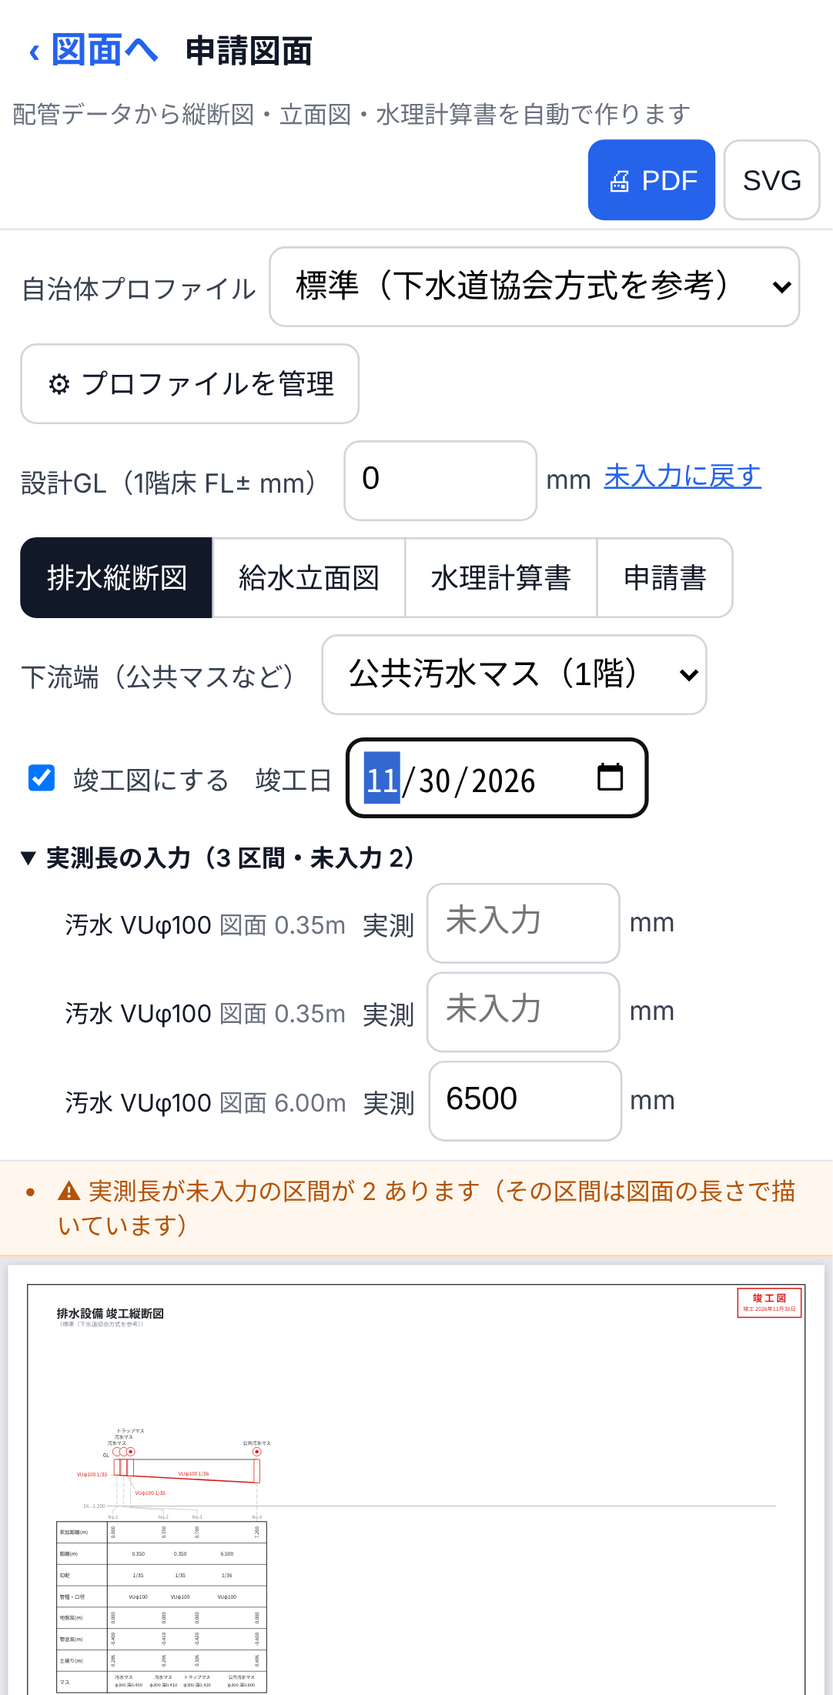
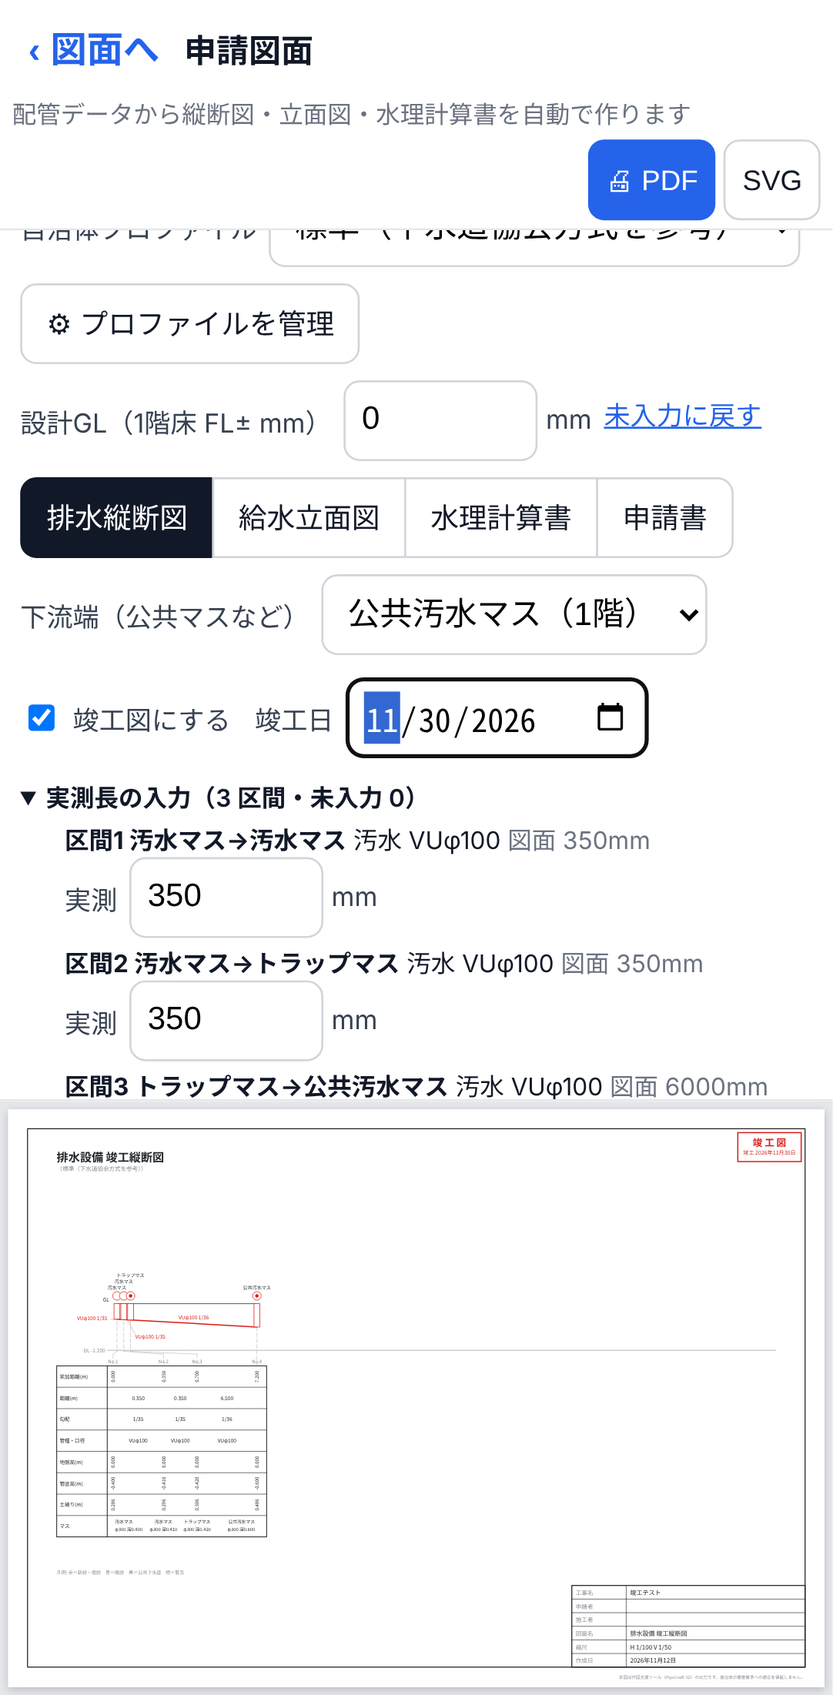
fix(竣工図): レビュー指摘の修正（ふだんの注意を落とさない・勾配の注意を実測で出し直す・一覧に区間番号とマス・mm で表示し図面とかけ離れた値と概算を注意・一覧が勝手に閉じない・ありえない日付・印で線を隠さない・立面図は一覧を出さない）
Claude-Session: https://claude.ai/code/session_0147UKVvh1jvwGpYxGadQEHZ

Changed region(s): [[0.0, 0.1235, 1.0, 1.0], [0.4575, 0.1235, 0.8845, 0.1853]]

diff --git a/src/ui/ShinseiScreen.tsx b/src/ui/ShinseiScreen.tsx
@@ -27,7 +27,7 @@ import { resolveSupplyRules } from '../model/hydraulics/supplyRules';
 import { renderSuiriSheets } from '../export/suiriSheet';
 import { SuiriPanel } from './SuiriPanel';
 import { AsBuiltPanel } from './AsBuiltPanel';
-import { applyMeasuredToProfile, asBuiltTitle, measuredLengthOf, readAsBuilt, unmeasuredSegments, writeAsBuilt, type AsBuiltSettings } from '../model/asBuilt';
+import { applyMeasuredToProfile, approxSegments, asBuiltTitle, suspiciousMeasured, measuredLengthOf, readAsBuilt, unmeasuredSegments, writeAsBuilt, type AsBuiltSettings } from '../model/asBuilt';
 import { stampAsBuilt } from '../export/asBuiltStamp';
 import { dateJa } from '../export/report';
 
@@ -84,7 +84,17 @@ const geometricLength = (doc: ReturnType<typeof useStore.getState>['doc']) => me
 
 export type ShinseiBuild = { sheets: Sheet[]; svg: string; warnings: string[]; error: string | null; kind: Kind;
   /** 竣工図: 図に出ている区間（実測長の一覧に出す）と図面の長さ */
-  asBuilt?: { segIds: string[]; unmeasured: number; modelLen: Record<string, number> } };
+  asBuilt?: { segIds: string[]; unmeasured: number; modelLen: Record<string, number>; labels: Record<string, string>; /** この図には長さを書かない（立面図） */ noLengths?: boolean } };
+
+/** 竣工図の注意: 未入力・図面とかけ離れた実測（単位の入れ違いなど）・按分の概算 */
+function asBuiltNotes(doc: ReturnType<typeof useStore.getState>['doc'], segIds: string[], modelLen: Record<string, number>, labels: Record<string, string>, unmeasured: number): string[] {
+  const out: string[] = [];
+  if (unmeasured) out.push(`実測長が未入力の区間が ${unmeasured} あります（その区間は図面の長さで描いています）`);
+  for (const id of suspiciousMeasured(doc, segIds, modelLen)) out.push(`${labels[id] ?? '区間'}: 実測 ${Math.round(doc.network.segments[id].measuredLength! * 10) / 10}mm が図面 ${Math.round(modelLen[id])}mm と大きく違います（単位は mm）`);
+  const approx = approxSegments(doc, segIds);
+  if (approx.length) out.push(`区間を分けたときに長さの比で分けた概算の実測長が ${approx.length} 区間あります（測り直すと正確になります）`);
+  return out;
+}
 
 export function ShinseiScreen({ onClose }: { onClose: () => void }) {
   const doc = useStore((s) => s.doc);
@@ -175,20 +185,29 @@ export function ShinseiScreen({ onClose }: { onClose: () => void }) {
       const unmeasured = new Set<string>();
       const drawn = ab ? models.map((m) => { const x = applyMeasuredToProfile(m, doc); x.unmeasured.forEach((u) => unmeasured.add(u)); return x.model; }) : models;
       const sheets = drawn.map((m, i) => renderProfileSheet(m, { siteName, date }, i === 0 ? iso : undefined));
-      const warnings = models.flatMap((m) => m.warnings.map((w) => w.message));
-      if (ab) {
-        // 縦断図に載る排水の展開図（沖縄市）の区間も一覧に入れる（長さを書くため）
-        if (iso) {
-          const geo = geometricLength(doc);
-          for (const l of iso.lines) if (!(l.segId in modelLen)) modelLen[l.segId] = geo(l.segId);
-          unmeasuredSegments(doc, iso.lines.map((l) => l.segId)).forEach((u) => unmeasured.add(u));
-        }
-        if (unmeasured.size) warnings.unshift(`実測長が未入力の区間が ${unmeasured.size} あります（その区間は図面の長さで描いています）`);
-        return { sheets, svg: '', warnings, error: null, kind, asBuilt: { segIds: Object.keys(modelLen), unmeasured: unmeasured.size, modelLen } };
-      }
+      // 注意は描いたモデルから（竣工図では勾配の注意を実測で出し直している）
+      const warnings = drawn.flatMap((m) => m.warnings.map((w) => w.message));
       if (iso && iso.lines.length === 0) warnings.push('排水の立面図（展開図）を描く配管がないため、縦断図だけを出しています');
       for (const o of r.omitted) warnings.push(`枝の中の分岐（${nodeLabel(o.atNodeId)}）は図に含めていません。別の下流端を選んで別に作図してください`);
       if (profileMissing) warnings.unshift(`現場の自治体プロファイル（${profileId}）がこの端末に見つからないため、標準で描いています`);
+      if (ab) {
+        // 一覧の名前: 「枝1 区間2 NO.1→NO.2」（注意の「区間 n」と同じ番号）
+        const labels: Record<string, string> = {};
+        models.forEach((m, mi) => m.segments.forEach((sg, k) => {
+          if (sg.distance < 1) return;
+          const nm = (n: (typeof m.nodes)[number] | undefined) => n?.manhole?.name ?? '点';
+          labels[sg.segId] = `${mi > 0 ? `枝${mi} ` : ''}区間${k + 1} ${nm(m.nodes[k])}→${nm(m.nodes[k + 1])}`;
+        }));
+        // 縦断図に載る排水の展開図（沖縄市）の区間も一覧に入れる（長さを書くため）
+        if (iso) {
+          const geo = geometricLength(doc);
+          for (const l of iso.lines) if (!(l.segId in modelLen)) { modelLen[l.segId] = geo(l.segId); labels[l.segId] = '展開図'; }
+          unmeasuredSegments(doc, iso.lines.map((l) => l.segId)).forEach((u) => unmeasured.add(u));
+        }
+        const segIds = Object.keys(modelLen);
+        warnings.unshift(...asBuiltNotes(doc, segIds, modelLen, labels, unmeasured.size));
+        return { sheets, svg: '', warnings, error: null, kind, asBuilt: { segIds, unmeasured: unmeasured.size, modelLen, labels } };
+      }
       return { sheets, svg: sheets.map(sheetToSvg).join(''), warnings, error: null, kind };
     }
     if (!rootId) return { sheets: [], svg: '', warnings: [], error: '給水の配管がありません。水道メーターを置き、給水の配管をつないでください', kind };
@@ -201,10 +220,12 @@ export function ShinseiScreen({ onClose }: { onClose: () => void }) {
       if (asBuilt.on) {
         const ids = iso.lines.map((l) => l.segId);
         const un = unmeasuredSegments(doc, ids);
-        if (un.length) warnings.push(`実測長が未入力の区間が ${un.length} あります（その区間は図面の長さで描いています）`);
         if (profileMissing) warnings.unshift(`現場の自治体プロファイル（${profileId}）がこの端末に見つからないため、標準で描いています`);
         const geo = geometricLength(doc);
-        return { sheets: [sheet], svg: '', warnings, error: null, kind, asBuilt: { segIds: ids, unmeasured: un.length, modelLen: Object.fromEntries(ids.map((id) => [id, geo(id)])) } };
+        const modelLen = Object.fromEntries(ids.map((id) => [id, geo(id)]));
+        const labels = Object.fromEntries(iso.lines.map((l, i) => [l.segId, `区間${i + 1} ${l.label.replace(/×[\d.]+$/, '')}`]));
+        warnings.push(...asBuiltNotes(doc, ids, modelLen, labels, un.length));
+        return { sheets: [sheet], svg: '', warnings, error: null, kind, asBuilt: { segIds: ids, unmeasured: un.length, modelLen, labels } };
       }
       if (profileMissing) warnings.unshift(`現場の自治体プロファイル（${profileId}）がこの端末に見つからないため、標準で描いています`);
       return { sheets: [sheet], svg: sheetToSvg(sheet), warnings, error: null, kind };
@@ -213,14 +234,9 @@ export function ShinseiScreen({ onClose }: { onClose: () => void }) {
     const sheet = renderRiserSheet(m, { siteName, date });
     const warnings = [...m.warnings];
     if (asBuilt.on) {
-      // 立面図は長さを書かない（表題と印だけ）。実測の一覧には図の区間を出す
-      const ids: string[] = [];
-      const walk = (n: RiserModel['root']) => { for (const e of n.children) { ids.push(e.segId); walk(e.to); } };
-      walk(m.root);
-      const un = unmeasuredSegments(doc, ids);
+      // 立面図は長さを書かない（表題と印だけ）。実測の一覧は出さない
       if (profileMissing) warnings.unshift(`現場の自治体プロファイル（${profileId}）がこの端末に見つからないため、標準で描いています`);
-      const geo = geometricLength(doc);
-      return { sheets: [sheet], svg: '', warnings, error: null, kind, asBuilt: { segIds: ids, unmeasured: un.length, modelLen: Object.fromEntries(ids.map((id) => [id, geo(id)])) } };
+      return { sheets: [sheet], svg: '', warnings, error: null, kind, asBuilt: { segIds: [], unmeasured: 0, modelLen: {}, labels: {}, noLengths: true } };
     }
     if (profileMissing) warnings.unshift(`現場の自治体プロファイル（${profileId}）がこの端末に見つからないため、標準で描いています`);
     return { sheets: [sheet], svg: sheetToSvg(sheet), warnings, error: null, kind };
@@ -320,7 +336,7 @@ export function ShinseiScreen({ onClose }: { onClose: () => void }) {
           </label>
         )}
         {(kind === 'profile' || kind === 'riser') && (
-          <AsBuiltPanel settings={asBuilt} onChange={setAsBuilt} segIds={built.asBuilt?.segIds ?? []} unmeasured={built.asBuilt?.unmeasured ?? 0} modelLength={(id) => built.asBuilt?.modelLen[id] ?? 0} />
+          <AsBuiltPanel settings={asBuilt} onChange={setAsBuilt} segIds={built.asBuilt?.segIds ?? []} unmeasured={built.asBuilt?.unmeasured ?? 0} modelLength={(id) => built.asBuilt?.modelLen[id] ?? 0} labels={built.asBuilt?.labels ?? {}} noLengths={!!built.asBuilt?.noLengths} />
         )}
         {kind !== 'forms' && <div className="seg-btns small">
           <button onClick={() => setZoom((z) => Math.max(0.25, z / 1.25))} aria-label="縮小">−</button>

diff --git a/src/model/asBuilt.ts b/src/model/asBuilt.ts
@@ -4,8 +4,8 @@
  * 縦断図は profileDrawing を変えずに、できたモデルを差し替える（排水の作業と衝突させないため）。
  */
 import type { Doc } from './doc';
-import { formatSlope } from './municipality';
-import type { ProfileModel } from './profileDrawing';
+import { formatSlope, minSlopeFor } from './municipality';
+import type { ProfileModel, ProfileWarning } from './profileDrawing';
 
 export type AsBuiltSettings = { on: boolean; date: string | undefined };
 
@@ -13,13 +13,21 @@ const ISO_DATE = /^\d{4}-\d{2}-\d{2}$/;
 
 export function readAsBuilt(app: Record<string, string> | undefined): AsBuiltSettings {
   const d = app?.['shunko.date'];
-  return { on: app?.['shunko.on'] === '1', date: d && ISO_DATE.test(d) ? d : undefined };
+  return { on: app?.['shunko.on'] === '1', date: d && validDate(d) ? d : undefined };
+}
+
+/** YYYY-MM-DD で、実在する日（2026-02-31 などは不可） */
+function validDate(d: string): boolean {
+  if (!ISO_DATE.test(d)) return false;
+  const [y, m, day] = d.split('-').map(Number);
+  const t = new Date(y, m - 1, day);
+  return t.getFullYear() === y && t.getMonth() === m - 1 && t.getDate() === day;
 }
 
 export function writeAsBuilt(app: Record<string, string> | undefined, patch: Partial<AsBuiltSettings>): Record<string, string> {
   const out = { ...(app ?? {}) };
   if ('on' in patch) { if (patch.on) out['shunko.on'] = '1'; else delete out['shunko.on']; }
-  if ('date' in patch) { if (patch.date && ISO_DATE.test(patch.date)) out['shunko.date'] = patch.date; else delete out['shunko.date']; }
+  if ('date' in patch) { if (patch.date && validDate(patch.date)) out['shunko.date'] = patch.date; else delete out['shunko.date']; }
   return out;
 }
 
@@ -51,6 +59,19 @@ export function unmeasuredSegments(doc: Doc, segIds: string[]): string[] {
   return segIds.filter((id) => doc.network.segments[id] && measured(doc, id) === undefined);
 }
 
+/** 按分した概算の実測長の区間 */
+export function approxSegments(doc: Doc, segIds: string[]): string[] {
+  return segIds.filter((id) => measured(doc, id) !== undefined && doc.network.segments[id]?.measuredApprox);
+}
+
+/** 実測が図面の長さの半分未満・2 倍超の区間（mm と m の入れ違いなど）。図面で 100mm 未満の区間は比べない */
+export function suspiciousMeasured(doc: Doc, segIds: string[], modelLen: Record<string, number>): string[] {
+  return segIds.filter((id) => {
+    const m = measured(doc, id), L = modelLen[id];
+    return m !== undefined && L !== undefined && L >= 100 && (m < L * 0.5 || m > L * 2);
+  });
+}
+
 /**
  * 縦断図のモデルの延長を実測にする。追加距離を積み直し、勾配＝落差÷実測。立管（延長 1mm 未満）は触らない。
  * 元のモデルは変えない。unmeasured: 実測の無い区間（立管を除く）
@@ -67,11 +88,20 @@ export function applyMeasuredToProfile(model: ProfileModel, doc: Doc): { model: 
     const slope = (up.invertLevel - (down.invertIn ?? down.invertLevel)) / m;
     return { ...s, distance: m, slope, slopeText: slope < -1e-9 ? '逆勾配' : formatSlope(slope, fmt) };
   });
+  // 勾配の注意（逆勾配・最小勾配）は、延長を変えた区間だけ出し直す
+  const changed = new Set(segments.filter((s, k) => s !== model.segments[k]).map((s) => s.segId));
+  const warnings: ProfileWarning[] = model.warnings.filter((w) => !(w.segId && changed.has(w.segId) && (w.kind === 'minSlope' || w.kind === 'reverseSlope')));
+  segments.forEach((s, k) => {
+    if (!changed.has(s.segId) || s.slope === null) return;
+    if (s.slope < -1e-9) { warnings.push({ kind: 'reverseSlope', segId: s.segId, message: `区間 ${k + 1}: 逆勾配（下流のほうが高い）` }); return; }
+    const need = minSlopeFor(model.profile, s.diameter);
+    if (need !== undefined && s.slope + 1e-9 < need) warnings.push({ kind: 'minSlope', segId: s.segId, message: `区間 ${k + 1}: φ${s.diameter} の最小勾配 ${formatSlope(need, fmt)} より緩い（${formatSlope(s.slope, fmt)}・実測）` });
+  });
   let cum = model.nodes[0]?.cumDistance ?? 0;
   const nodes = model.nodes.map((n, k) => {
     if (k === 0) return n;
     cum += segments[k - 1]?.distance ?? 0;
     return { ...n, cumDistance: cum };
   });
-  return { model: { ...model, segments, nodes }, unmeasured };
+  return { model: { ...model, segments, nodes, warnings }, unmeasured };
 }

diff --git a/src/ui/AsBuiltPanel.tsx b/src/ui/AsBuiltPanel.tsx
@@ -2,25 +2,37 @@
  * 申請画面の「竣工図にする」と竣工日、図に出ている区間の実測長の一覧（まとめて入れる）。
  * 実測長は区間の measuredLength（現場実測長）。入れた値はそのまま図の延長になる。
  */
+import { useState } from 'react';
 import { useStore } from '../state/store';
 import type { AsBuiltSettings } from '../model/asBuilt';
 import { OptNumField } from './Panels';
 
-type Props = { settings: AsBuiltSettings; onChange: (patch: Partial<AsBuiltSettings>) => void; segIds: string[]; unmeasured: number; modelLength: (segId: string) => number };
+type Props = { settings: AsBuiltSettings; onChange: (patch: Partial<AsBuiltSettings>) => void; segIds: string[]; unmeasured: number; modelLength: (segId: string) => number; labels: Record<string, string>; noLengths?: boolean };
 
 const SYS: Record<string, string> = { water: '給水', hotWater: '給湯', drain: '雑排水', sewage: '汚水', vent: '通気' };
 
-export function AsBuiltPanel({ settings, onChange, segIds, unmeasured, modelLength }: Props) {
-  const doc = useStore((s) => s.doc);
-  const setMeasured = useStore((s) => s.setSegmentMeasured);
+export function AsBuiltPanel({ settings, onChange, segIds, unmeasured, modelLength, labels, noLengths }: Props) {
   return (
     <>
       <label className="field inline"><input type="checkbox" data-testid="asbuilt-on" checked={settings.on} onChange={(e) => onChange({ on: e.target.checked })} /> 竣工図にする</label>
       {settings.on && (
         <>
           <label className="field inline">竣工日 <input type="date" data-testid="asbuilt-date" value={settings.date ?? ''} onChange={(e) => onChange({ date: e.target.value || undefined })} /></label>
-          {segIds.length > 0 && (
-            <details className="asbuilt-list" data-testid="asbuilt-list" open={unmeasured > 0}>
+          {noLengths && <span className="muted small">この図には長さを書きません（表題と竣工の印だけ変わります）</span>}
+          {segIds.length > 0 && <AsBuiltList segIds={segIds} unmeasured={unmeasured} modelLength={modelLength} labels={labels} />}
+        </>
+      )}
+    </>
+  );
+}
+
+/** 実測長の一覧。出たときに未入力があれば開き、入れ終わっても勝手に閉じない（スマホで画面が跳ねないように） */
+function AsBuiltList({ segIds, unmeasured, modelLength, labels }: Pick<Props, 'segIds' | 'unmeasured' | 'modelLength' | 'labels'>) {
+  const doc = useStore((s) => s.doc);
+  const setMeasured = useStore((s) => s.setSegmentMeasured);
+  const [open, setOpen] = useState(unmeasured > 0);
+  return (
+            <details className="asbuilt-list" data-testid="asbuilt-list" open={open} onToggle={(e) => setOpen(e.currentTarget.open)}>
               <summary>実測長の入力（{segIds.length} 区間・未入力 <span data-testid="asbuilt-unmeasured">{unmeasured}</span>）</summary>
               <ol>
                 {segIds.map((id) => {
@@ -28,7 +40,7 @@ export function AsBuiltPanel({ settings, onChange, segIds, unmeasured, modelLeng
                   if (!s) return null;
                   return (
                     <li key={id}>
-                      <span className="small">{SYS[s.system] ?? s.system} {s.material ?? ''}φ{s.diameter}<span className="muted"> 図面 {(modelLength(id) / 1000).toFixed(2)}m</span></span>
+                      <span className="small"><strong>{labels[id] ?? ''}</strong> {SYS[s.system] ?? s.system} {s.material ?? ''}φ{s.diameter}<span className="muted"> 図面 {Math.round(modelLength(id))}mm</span></span>
                       <OptNumField label="実測" positive value={s.measuredLength} testId={`asbuilt-len-${id}`} placeholder="未入力" onCommit={(v) => setMeasured(id, v)} />
                       {s.measuredApprox && <span className="badge warn" title="区間を分けたとき長さの比で分けた値">概算</span>}
                     </li>
@@ -36,9 +48,5 @@ export function AsBuiltPanel({ settings, onChange, segIds, unmeasured, modelLeng
                 })}
               </ol>
             </details>
-          )}
-        </>
-      )}
-    </>
   );
 }

diff --git a/src/model/asBuilt.test.ts b/src/model/asBuilt.test.ts
@@ -2,7 +2,7 @@ import { describe, expect, test } from 'vitest';
 import { drainHouse as crowdedDrain } from './testDrainHouse';
 import { STANDARD_PROFILE } from './municipality';
 import { buildProfile, extractRoute } from './profileDrawing';
-import { applyMeasuredToProfile, asBuiltTitle, measuredLengthOf, readAsBuilt, unmeasuredSegments, writeAsBuilt } from './asBuilt';
+import { applyMeasuredToProfile, approxSegments, asBuiltTitle, measuredLengthOf, readAsBuilt, suspiciousMeasured, unmeasuredSegments, writeAsBuilt } from './asBuilt';
 import type { Doc } from './doc';
 
 function withMeasured(doc: Doc, m: Record<string, number>, approx: string[] = []): Doc {
@@ -84,5 +84,37 @@ describe('展開図の長さ・未実測の区間', () => {
     expect(len(ids[0])).toBe(777);
     expect(len(ids[2])).toBeGreaterThan(0);
     expect(unmeasuredSegments(d2, ids)).toEqual(ids.slice(2));
+  });
+});
+
+describe('レビュー指摘', () => {
+  test('勾配の注意を実測の勾配で出し直す（緩くなれば足し、直れば消す）', () => {
+    const { doc, outlet } = crowdedDrain();
+    const base = profileOf(doc, outlet);
+    const target = base.segments.filter((s) => s.slope !== null).at(-1)!;
+    const k = base.segments.indexOf(target);
+    expect(base.warnings.some((w) => w.segId === target.segId)).toBe(false);
+    const long = withMeasured(doc, { [target.segId]: 60000 });
+    const a = applyMeasuredToProfile(profileOf(long, outlet), long).model;
+    expect(a.warnings.filter((w) => w.segId === target.segId).map((w) => w.kind)).toEqual(['minSlope']);
+    expect(a.warnings.find((w) => w.segId === target.segId)!.message).toContain(`区間 ${k + 1}:`);
+    // 図面では緩い（古い注意あり）→ 実測で足りる → 消える
+    const stale = { ...profileOf(doc, outlet) };
+    stale.warnings = [...stale.warnings, { kind: 'minSlope' as const, segId: target.segId, message: '古い' }];
+    const short = withMeasured(doc, { [target.segId]: 3000 });
+    expect(applyMeasuredToProfile(stale, short).model.warnings.some((w) => w.segId === target.segId)).toBe(false);
+  });
+  test('図面の長さとかけ離れた実測（単位の間違いなど）・按分の概算を見つける', () => {
+    const { doc } = crowdedDrain();
+    const ids = Object.keys(doc.network.segments);
+    const d2 = withMeasured(doc, { [ids[0]]: 6.5, [ids[1]]: 1, [ids[2]]: 400 }, [ids[2]]);
+    const len = { [ids[0]]: 6000, [ids[1]]: 1.5, [ids[2]]: 350 };
+    expect(suspiciousMeasured(d2, ids, len)).toEqual([ids[0]]); // 1.5mm の区間は比べない（立管など）
+    expect(approxSegments(d2, ids)).toEqual([ids[2]]);
+  });
+  test('ありえない竣工日は読まない', () => {
+    expect(readAsBuilt({ 'shunko.date': '2026-13-01' }).date).toBeUndefined();
+    expect(readAsBuilt({ 'shunko.date': '2026-02-31' }).date).toBeUndefined();
+    expect(readAsBuilt({ 'shunko.date': '2026-02-28' }).date).toBe('2026-02-28');
   });
 });

diff --git a/e2e/asbuilt.spec.ts b/e2e/asbuilt.spec.ts
@@ -37,6 +37,20 @@ test.describe('竣工図', () => {
     await expect.poll(() => page.evaluate((id) => (window as any).__pc.getState().doc.network.segments[id].measuredLength, segId)).toBe(6500);
     await expect(page.getByTestId('asbuilt-unmeasured')).toHaveText(String(before - 1));
     await expect(preview).toContainText('6.500');
+    // 一覧は区間の番号とマスで見分けられる
+    await expect(page.getByTestId('asbuilt-list')).toContainText('区間');
+    await expect(page.getByTestId('asbuilt-list')).toContainText('→');
+    // m のつもりで 6.5 と入れる → 図面とかけ離れていると注意（単位は mm）
+    const first = inputs.first();
+    await first.fill('6.5'); await first.press('Enter');
+    await expect(page.getByTestId('shinsei-warnings')).toContainText('大きく違います（単位は mm）');
+    await first.fill(''); await first.press('Enter');
+    await expect(page.getByTestId('shinsei-warnings')).not.toContainText('大きく違います');
+    // 全部入れても一覧は閉じない
+    const n = await inputs.count();
+    for (let i = 0; i < n; i++) { const el = inputs.nth(i); if ((await el.inputValue()) === '') { await el.fill('350'); await el.press('Enter'); } }
+    await expect(page.getByTestId('asbuilt-unmeasured')).toHaveText('0');
+    await expect(page.getByTestId('asbuilt-list')).toHaveAttribute('open', '');
     await page.getByTestId('asbuilt-date').fill('2026-11-30');
     await expect(preview).toContainText('竣工 2026年11月30日');
     await page.screenshot({ path: evidence('asbuilt-01-profile') });
@@ -53,6 +67,11 @@ test.describe('竣工図', () => {
       expect(dl.suggestedFilename()).toMatch(/竣工縦断図.*\.pdf$/);
       if (test.info().project.name === 'pc-chrome') await dl.saveAs('test-evidence/pc-chrome-asbuilt-02.pdf');
     }
+
+    // 竣工図でも、ふだんの注意（この端末に無い自治体プロファイル）は出る
+    await page.evaluate(() => (window as any).__pc.getState().updateSite({ municipalityProfileId: 'user-missing' }));
+    await expect(page.getByTestId('shinsei-warnings')).toContainText('この端末に見つからない');
+    await page.evaluate(() => (window as any).__pc.getState().updateSite({ municipalityProfileId: 'standard' }));
 
     // やめると申請図に戻る（実測長は残る）
     await page.getByTestId('asbuilt-on').uncheck();

diff --git a/src/export/asBuiltStamp.ts b/src/export/asBuiltStamp.ts
@@ -43,7 +43,7 @@ export function stampAsBuilt(sheet: Sheet, dateText: string): { collided: boolea
       const box: Rect = { x1: x, y1: y, x2: x + w, y2: y + h };
       for (const r of hard) if (hit(box, r)) cost += 1000;
       if (best && cost >= best.cost) continue;
-      for (const s of segs) if (segHitsRect(s, box)) cost += 25;
+      for (const s of segs) if (segHitsRect(s, box)) cost += 200; // 白い枠で図の線を隠さないよう、線の少ない所を強く選ぶ
       if (!best || cost < best.cost) best = { x, y, cost };
     }
   }
